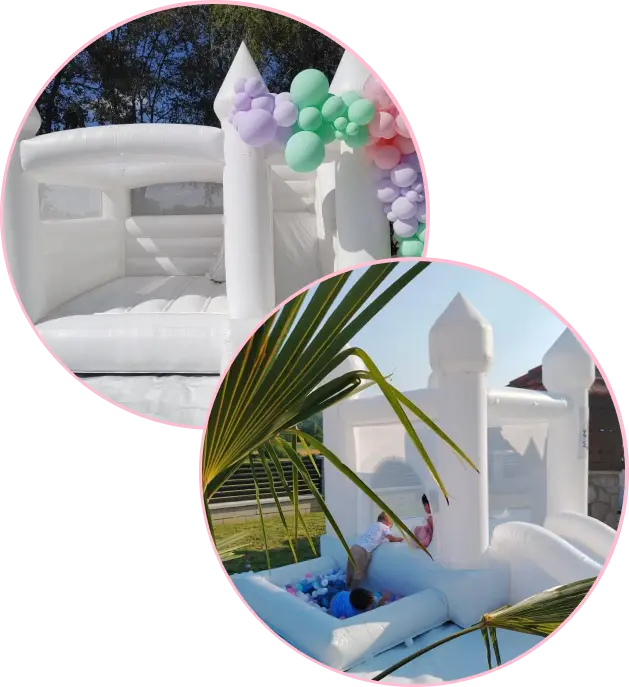
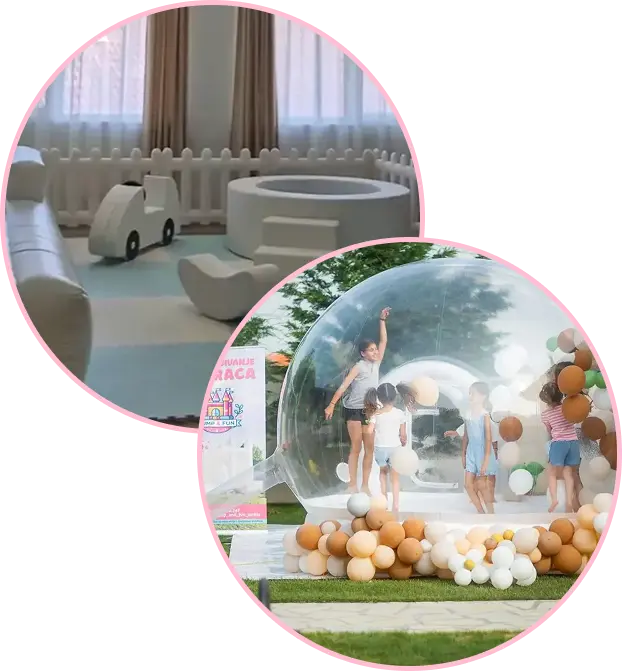
Izmene cene paketa

diff --git a/client/src/assets/services/package.ts b/client/src/assets/services/package.ts
@@ -26,16 +26,16 @@ export const packages: Package[] = [
     variant: "paket1",
     image: Package1,
     title: `🎉 Paket 1
-     Veliki & Mali Dvorac`,
+     Soft Play & Bubble House`,
     description1: `Kompletna zabava za decu svih uzrasta! 
     ✨ Idealno za rođendane, krštenja i porodične proslave, u zatvorenom i na otvorenom.`,
     description2: `
 👤 Montaža i demontaža, osoba za nadzor i bezbedno korišćenje
 
 `,
-    price: `💶 240€`,
-    age1: `Veliki Dvorac 2–10 god.`,
-    age2: `Mali Dvorac 1–6 god.`,
+    price: `💶 370€`,
+    age1: `Soft Play 1–12 god.`,
+    age2: `Bubble House 2–6 god.`,
     time1: `Trajanje 4h`,
   },
   {
@@ -51,11 +51,11 @@ export const packages: Package[] = [
 📍 Dostupno u: Novom Sadu i širom Srbije
 
 `,
-    price: `💶 280€`,
+    price: `💶 300€`,
     age1: `Veliki Dvorac 2–10 god.`,
     age2: `BubbleHouse 2–6 god.`,
     time1: `Veliki Dvorac 4h`,
-    time2: `BubbleHouse 3h`,
+    time2: `BubbleHouse 4h`,
   },
   {
     id: 3,
@@ -70,31 +70,31 @@ export const packages: Package[] = [
 📍 Dostupno u: Novom Sadu i širom Srbije
 
 `,
-    price: `💶 210€`,
+    price: `💶 250€`,
     age1: `BubbleHouse 2–6 god.`,
     age2: `Mali Dvorac 1–6 god.`,
     time1: `Mali Dvorac 4h`,
-    time2: `BubbleHouse 3h`,
+    time2: `BubbleHouse 4h`,
   },
   {
     id: 4,
     variant: "paket4",
     image: Package4,
     title: `🌟 Paket 4
-    Kompletan paket`,
-    description1: `Najkompletnije rešenje za veće proslave – tri dvorca za decu svih uzrasta! 
-    ✨ Idealno za rođendane, krštenja i porodične proslave – više zabave, više prostora i sigurna igra.`,
+    Soft Play & Mali Dvorac`,
+    description1: `Kompletna zabava za decu svih uzrasta! 
+    ✨ Idealno za rođendane, krštenja i porodične proslave, u zatvorenom i na otvorenom.`,
     description2: `
     👤 Montaža i osoba za bezbedno korišćenje
 
     📍 Dostupno za iznajmljivanje u: Novom Sadu i širom Srbije
 
     `,
-    price: `💶 360€`,
-    age1: `BubbleHouse 2-6 god.`,
+    price: `💶 340€`,
+    age1: `Soft Play 1-12 god.`,
     age2: `Mali Dvorac 1–6 god.`,
     age3: `Veliki Dvorac 2-10 god`,
-    time1: `BubbleHouse 3h`,
-    time2: `Dvorci 4h`,
+    time1: `Soft Play 4h`,
+    time2: `Mali Dvorac 4h`,
   },
 ];

diff --git a/client/src/components/Packages.tsx b/client/src/components/Packages.tsx
@@ -125,7 +125,6 @@ export const Packages = () => {
               <div className="flex flex-row gap-4 items-center justify-center mt-4">
                 {pkg.age1 && <Badge className="text-white">{pkg.age1}</Badge>}
                 {pkg.age2 && <Badge className="text-white">{pkg.age2}</Badge>}
-                {pkg.age3 && <Badge className="text-white">{pkg.age3}</Badge>}
                 {pkg.time1 && <Badge className="text-white">{pkg.time1}</Badge>}
                 {pkg.time2 && <Badge className="text-white">{pkg.time2}</Badge>}
               </div>
@@ -173,9 +172,6 @@ export const Packages = () => {
                     )}
                     {pkg.age2 && (
                       <Badge className="text-white flex">{pkg.age2}</Badge>
-                    )}
-                    {pkg.age3 && (
-                      <Badge className="text-white flex">{pkg.age3}</Badge>
                     )}
                     {pkg.time1 && (
                       <Badge className="text-white flex">{pkg.time1}</Badge>
